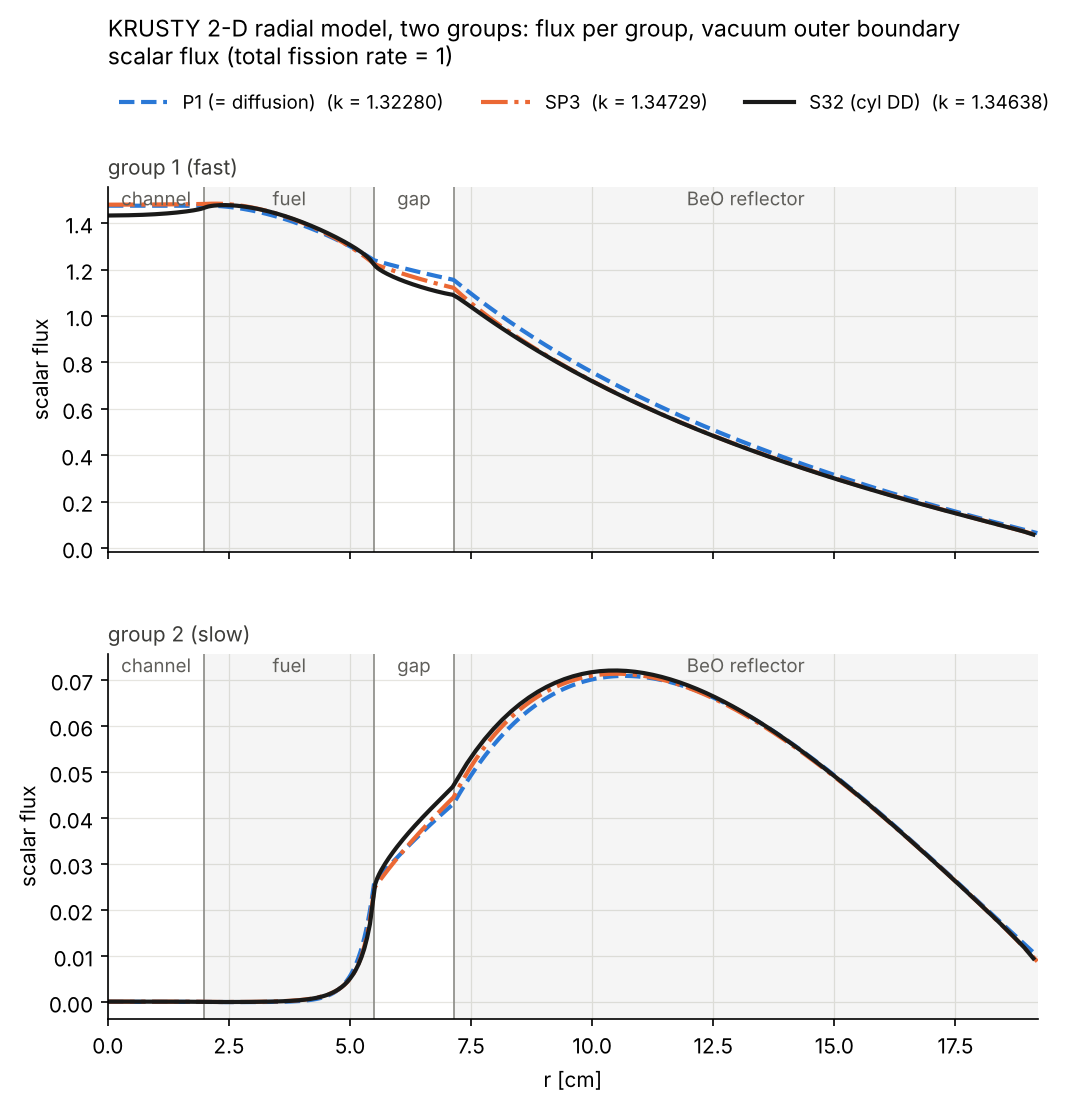
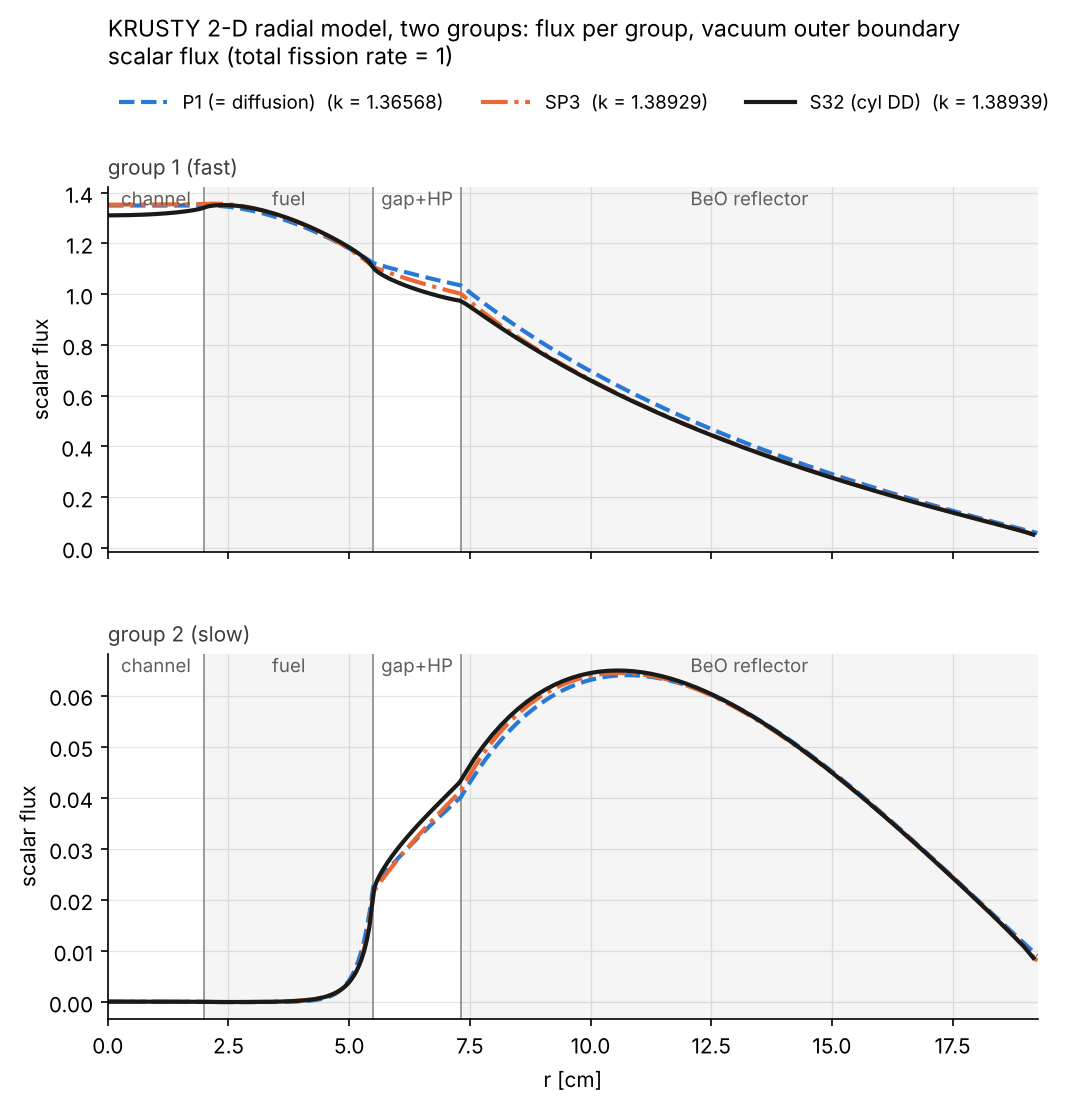
KRUSTY example: move all heat pipes into the gap
Fuel annulus keeps its radii (pure fuel); the 8 heat pipes (10.13 cm2) are
mixed by area with the vacuum-chamber material in the gap, which widens to
r = 7.3147 cm; the BeO reflector keeps its area (outer radius 19.2654 cm).

Claude-Session: https://claude.ai/code/session_01KxptPvnRLeReVHZnjWER3E

diff --git a/README.md b/README.md
@@ -234,7 +234,8 @@ neutrons for the cylindrical S_N. Negative capture (net (n,2n) gain, e.g. BeO) i
 
 `examples/krusty_2g_cyl.toml` is the KRUSTY 2-D radial model as a 1-D cylinder (central
 channel, U-Mo fuel annulus, gap, BeO reflector, vacuum outside), with the two-group OpenMC
-cross sections of the femcore `krusty2d` benchmark; the 8 heat pipes are smeared by area.
+cross sections of the femcore `krusty2d` benchmark. The fuel annulus keeps its radii; all 8 heat pipes are
+moved into the gap (mixed by area with the vacuum-chamber material), which widens it to r = 7.3147 cm.
 
 ![KRUSTY two-group](docs/img/krusty_2g_cyl_flux.png)
 
